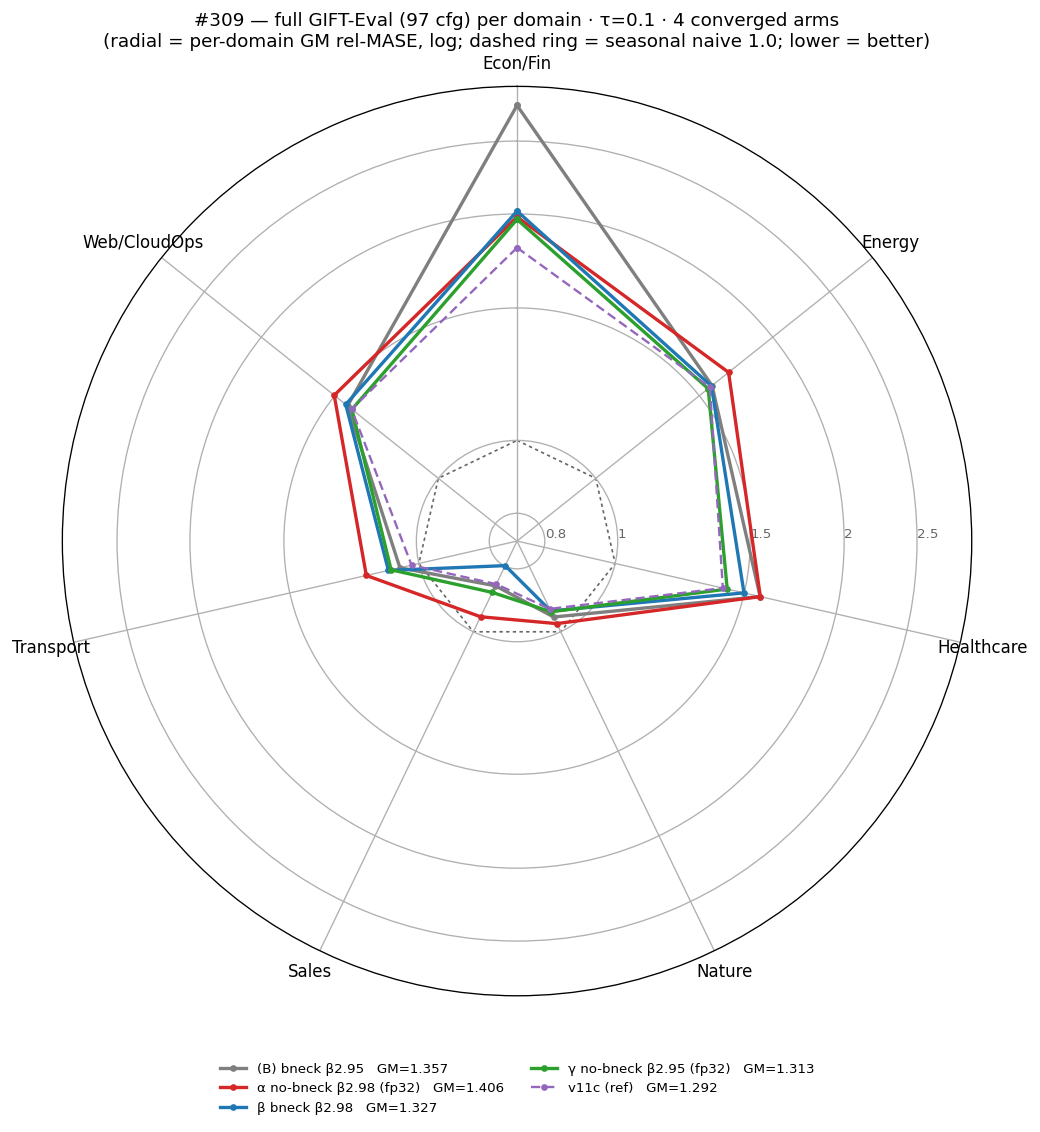
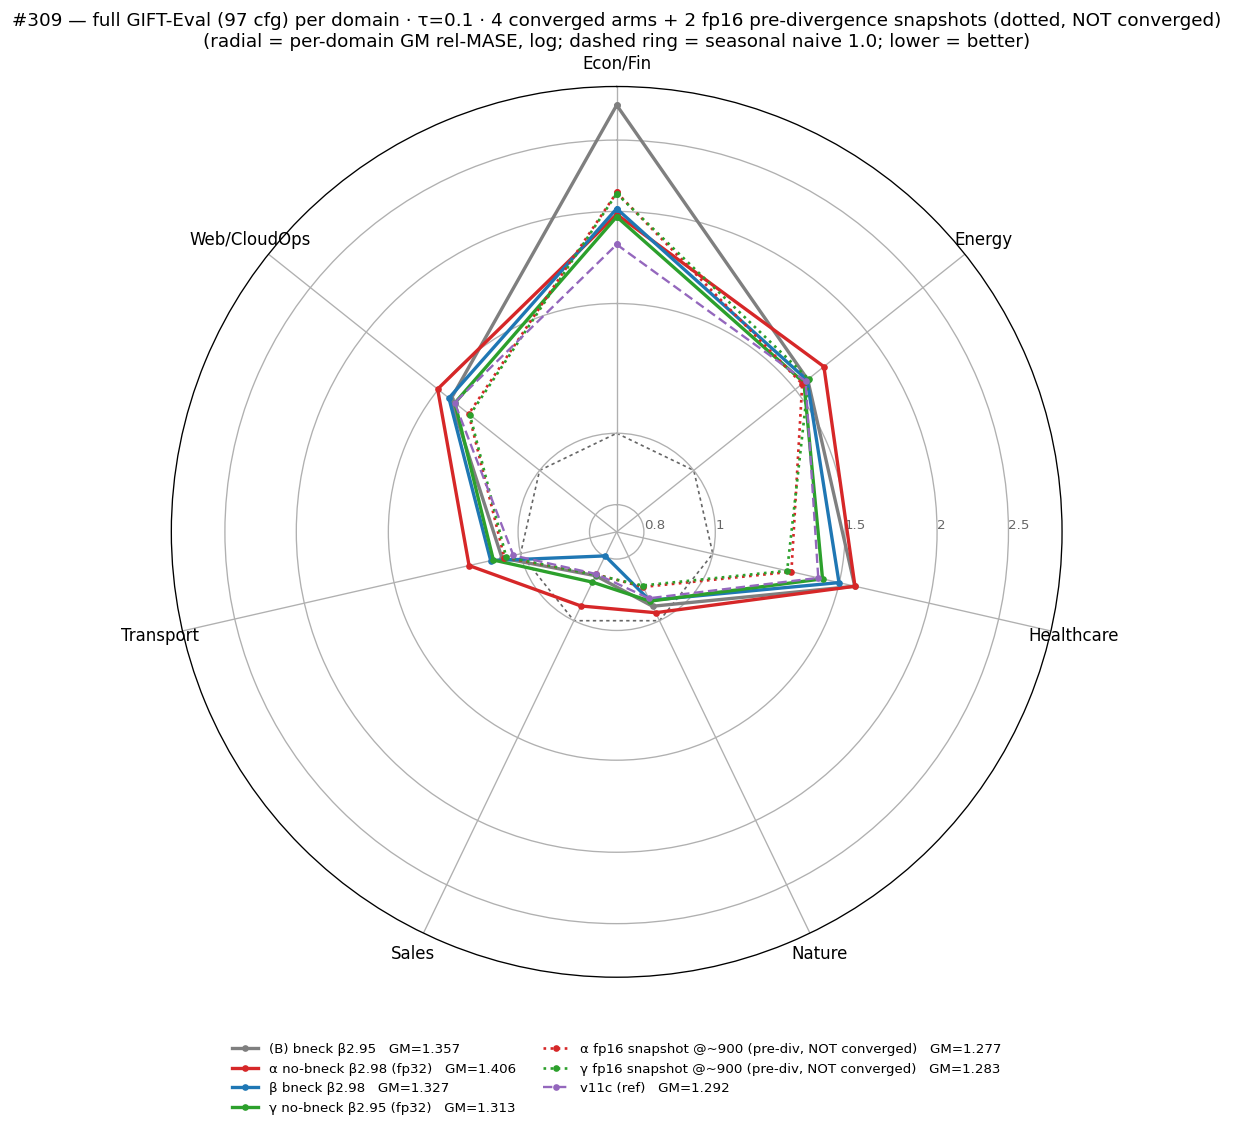
exp(#309): show the 2 fp16 pre-divergence snapshots in the τ=0.1 radar (dotted, not converged)
Per request: the α/γ fp16 pre-divergence snapshots (1.277/1.283)
surprisingly score below v11c, so add them back to the τ=0.1 per-domain
radar as dotted lines, clearly labeled "pre-div, NOT converged". Radar
only (TAU01_RADAR_ARMS); the training-curve plot keeps TAU01_ARMS so it
stays divergence-free. Caption + cross-ref to the failures section.

diff --git a/experiments/2026-05-20_bottleneck_beta2_confound/scripts/plot_results.py b/experiments/2026-05-20_bottleneck_beta2_confound/scripts/plot_results.py
@@ -49,6 +49,18 @@ TAU01_ARMS = [
     V11C_ARM,
 ]
 
+# τ=0.1 RADAR adds the two fp16 pre-divergence snapshots (dotted, NOT
+# converged) — they surprisingly score below v11c despite being
+# ~900-step checkpoints of diverging runs. Curves keep using TAU01_ARMS
+# (no snapshots) so the training-curve plot stays divergence-free.
+TAU01_RADAR_ARMS = TAU01_ARMS[:-1] + [
+    ("α fp16 snapshot @~900 (pre-div, NOT converged)", C_A, None,
+     f"{MAIN}/results/gift_eval_full_bb_alpha_50k", ":", 1.6, 0.0),
+    ("γ fp16 snapshot @~900 (pre-div, NOT converged)", C_G, None,
+     f"{MAIN}/results/gift_eval_full_bb_gamma_50k", ":", 1.6, 0.0),
+    V11C_ARM,
+]
+
 # τ=0.8 — the CONVERGED τ=0.8 arms only. The fp16 bottleneck arms at
 # τ=0.8 ((B), β) collapse after ~step 500 (best_loss = collapse-onset
 # snapshot @ step ~324 / ~500, not a converged model) and are excluded
@@ -199,8 +211,9 @@ def draw_curves(arms, out_path, suptitle):
     print(f"wrote {out_path} — arms={len(curves)}")
 
 
-draw_radar(TAU01_ARMS, f"{OUT}/perdomain_star_tau01.png",
-           "#309 — full GIFT-Eval (97 cfg) per domain · τ=0.1 · 4 converged arms")
+draw_radar(TAU01_RADAR_ARMS, f"{OUT}/perdomain_star_tau01.png",
+           "#309 — full GIFT-Eval (97 cfg) per domain · τ=0.1 · 4 converged arms "
+           "+ 2 fp16 pre-divergence snapshots (dotted, NOT converged)")
 draw_radar(TAU08_ARMS, f"{OUT}/perdomain_star_tau08.png",
            "#309 — full GIFT-Eval (97 cfg) per domain · τ=0.8 · converged arms (α, γ fp32)")
 draw_curves(TAU01_ARMS, f"{OUT}/training_curves_tau01.png",

diff --git a/experiments/2026-05-20_bottleneck_beta2_confound/RESULTS.md b/experiments/2026-05-20_bottleneck_beta2_confound/RESULTS.md
@@ -97,14 +97,20 @@ The fp16 bottleneck arms have no converged τ=0.8 cell — they collapse
 
 ### Per-domain (full GIFT-Eval), v11c dashed
 
-τ=0.1 (4 converged arms):
+τ=0.1 (4 converged arms, solid; plus the 2 fp16 pre-divergence
+snapshots, **dotted** — shown because they surprisingly score below
+v11c, but they are not converged backbones — see failures section):
 ![star τ0.1](plots/perdomain_star_tau01.png)
 
 τ=0.8 (converged arms only — α, γ fp32; the fp16 bneck arms collapsed):
 ![star τ0.8](plots/perdomain_star_tau08.png)
 
 The converged arms sit on or outside the v11c ring across domains; none
-sits cleanly inside it. The per-domain picture tracks the aggregate.
+sits cleanly inside it. The two dotted **pre-divergence snapshots**
+(α 1.277, γ 1.283) *do* sit inside v11c on most domains — the surprising
+under-training effect — but they are ~900-step checkpoints of diverging
+runs, not converged models (failures section). The per-domain picture
+tracks the aggregate.
 
 ### Training curves (converged)
 
